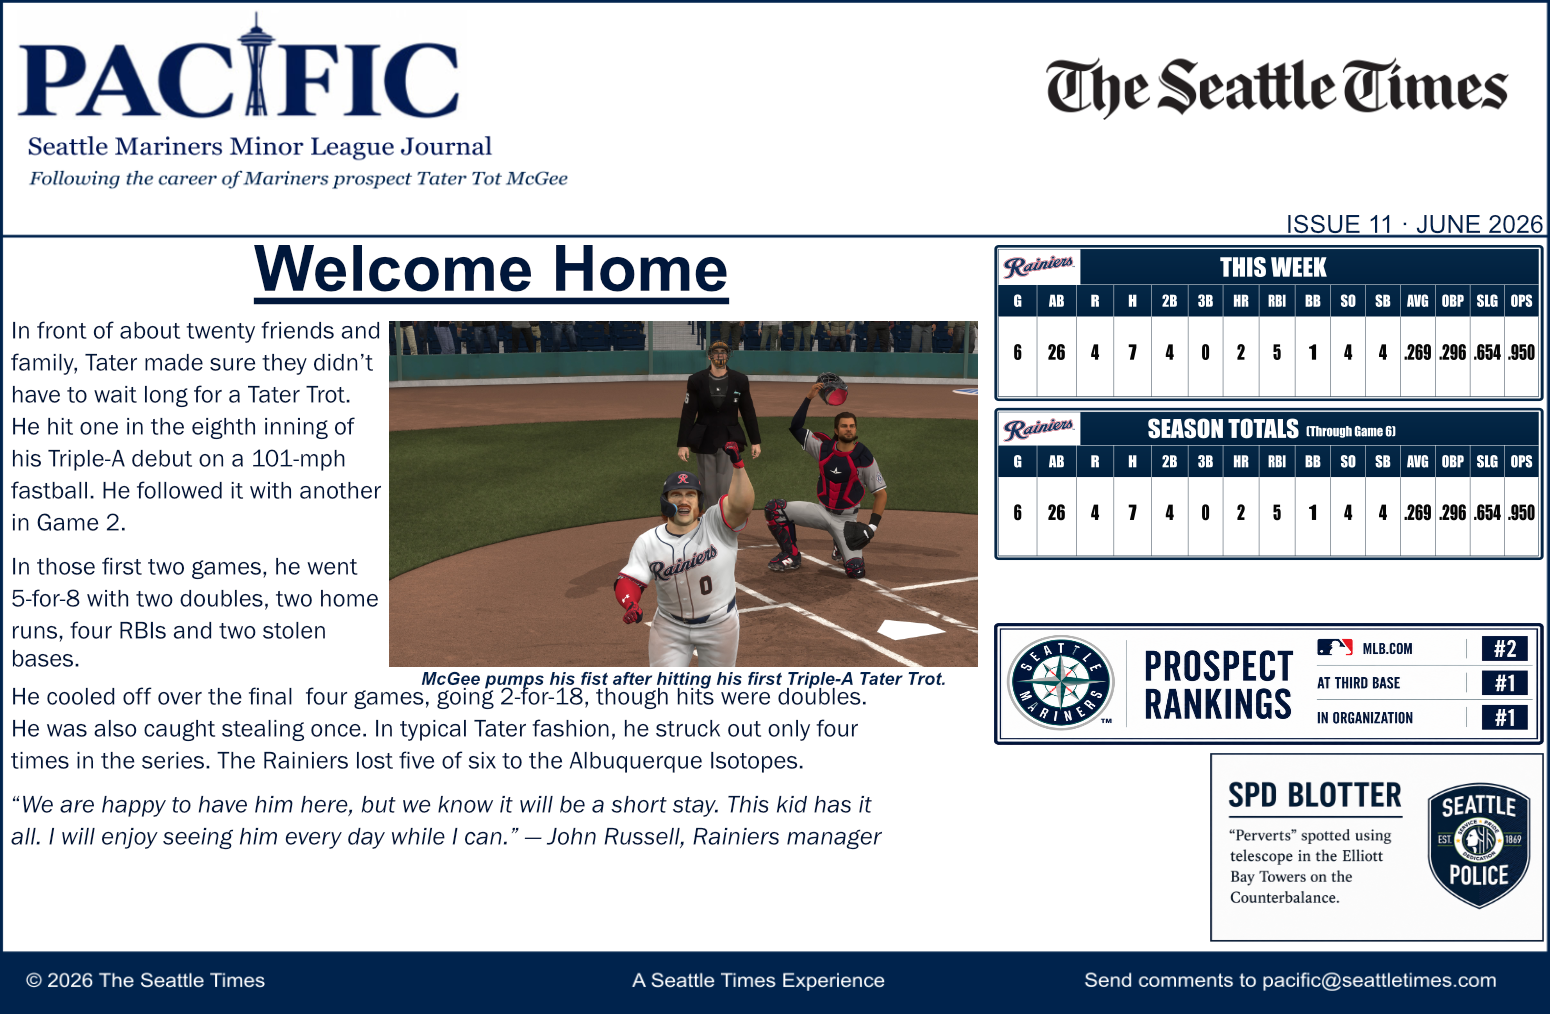
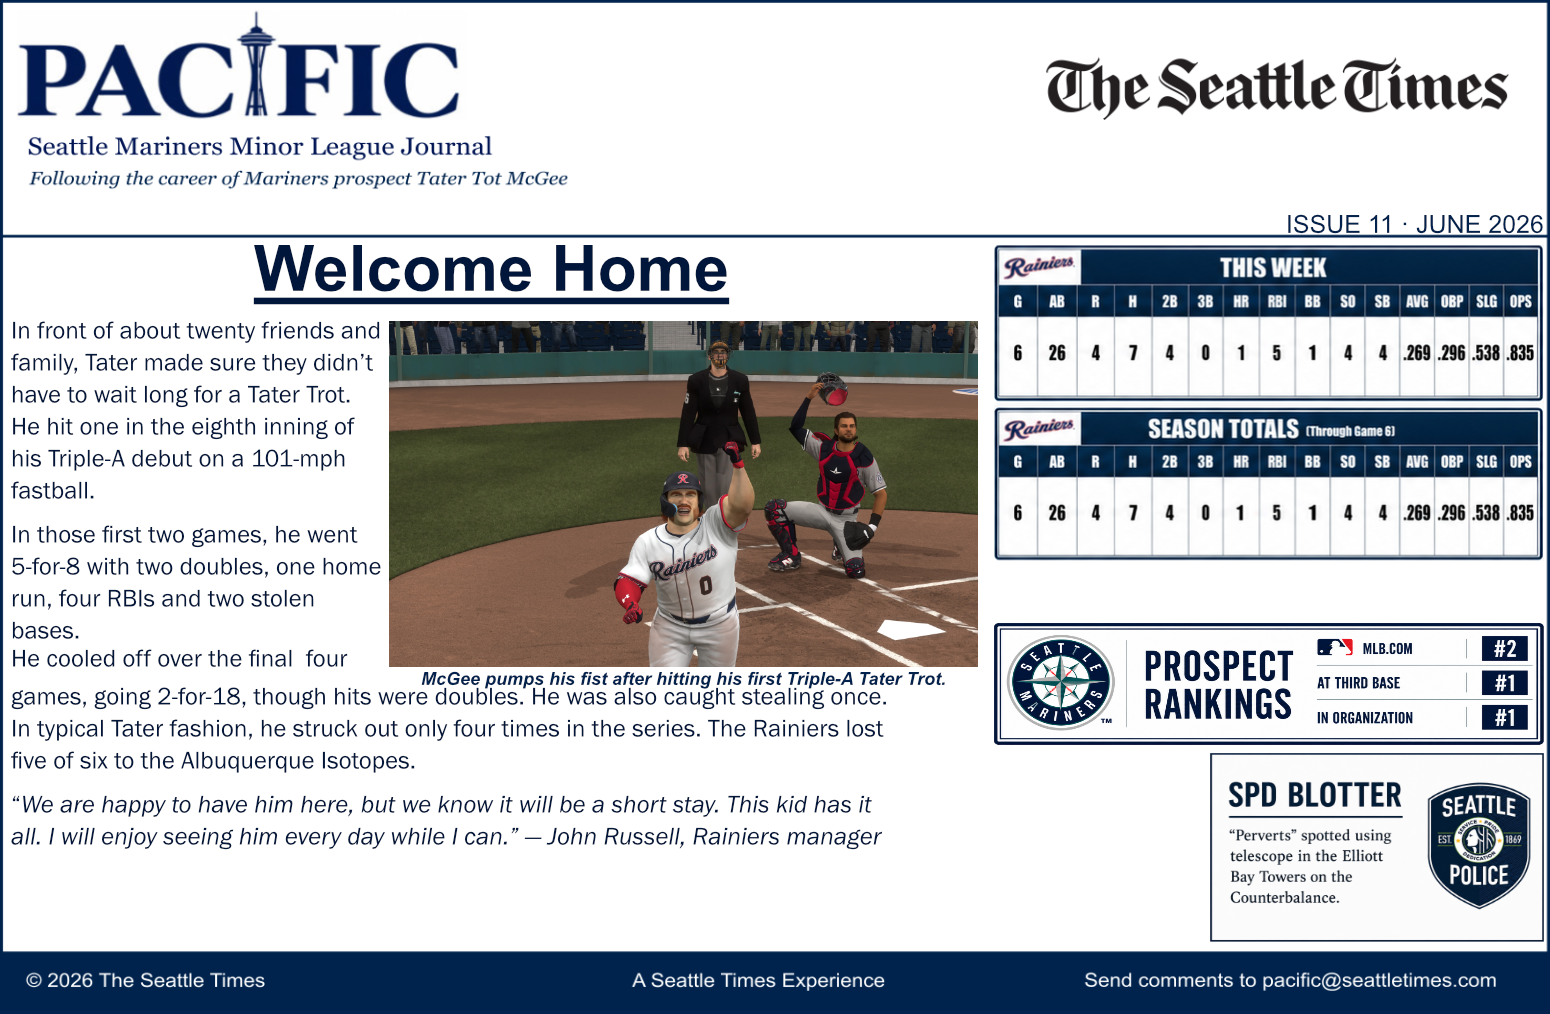
stat boxfix

Changed region(s): [[0.6194, 0.2446, 1.0, 0.5503], [0.0, 0.4892, 0.5574, 0.7643], [0.0619, 0.4586, 0.2477, 0.4892]]

diff --git a/recaps.html b/recaps.html
@@ -3,4 +3,5 @@
 <nav class="nav"><div class="navrow"><a class="" href="index.html">Home</a><a class="" href="mcgee-story.html">The McGee Story</a><a class="" href="archive.html">Weekly Write-Ups</a><a class="active" href="recaps.html">Monthly Recaps</a><a href="stats.html">Stats</a><a class="" href="career.html">Career Milestones</a><a class="" href="photos.html">Photos</a><a class="" href="snapshots.html">Personal Snapshots</a></div></nav><section class="pagehero"><div class="wrap"><div class="kicker">Monthly Recaps</div><h1 class="h1">The season in numbers</h1><p class="dek">Monthly PACIFIC recaps from the professional season of Tater Tot McGee.</p></div></section>
 <section id="april"><div class="wrap"><div class="kicker">April 2026</div><h2 class="h2">Tater's April Roller Coaster</h2><div class="statcards"><div class="stat"><b>.267</b><span>AVG</span></div><div class="stat"><b>.333</b><span>OBP</span></div><div class="stat"><b>.311</b><span>SLG</span></div><div class="stat"><b>.644</b><span>OPS</span></div></div><div class="recapsec"><a href="assets/april-recap.png" target="_blank"><img src="assets/april-recap.png" alt="April PACIFIC recap"></a><div class="recapnotes"><h3>April at a glance</h3><ul><li>24 games, 24 hits, 4 doubles</li><li>13 RBI, 8 walks, 6 strikeouts</li><li>7 stolen bases</li><li>Finished the month by hitting .467 over his final four games</li><li>Game of the Month: April 29 at Wichita — 2-for-3, double, walk, stolen base, 1.800 OPS</li></ul></div></div></div></section>
 <section id="may" class="section-alt"><div class="wrap"><div class="kicker">May 2026</div><h2 class="h2">Tater's Breakout Month</h2><div class="statcards"><div class="stat"><b>.299</b><span>AVG</span></div><div class="stat"><b>.339</b><span>OBP</span></div><div class="stat"><b>.522</b><span>SLG</span></div><div class="stat"><b>.861</b><span>OPS</span></div></div><div class="recapsec"><a href="assets/may-recap.png" target="_blank"><img src="assets/may-recap.png" alt="May PACIFIC recap"></a><div class="recapnotes"><h3>May at a glance</h3><ul><li>27 games, 35 hits, 13 doubles</li><li>3 home runs and 25 RBI</li><li>7 walks, only 4 strikeouts</li><li>Hit .400 over the final 12 games of the month</li><li>Best Game: May 15 at Northwest Arkansas — 2-for-4, HR, 2B, 2 RBI, walk, 0 strikeouts, 2.100 OPS</li></ul></div></div></div></section>
+<section id="june"><div class="wrap"><div class="kicker">June 2026 · Arkansas AA / Tacoma AAA</div><h2 class="h2">Tater’s Tacoma Homecoming</h2><div class="statcards"><div class="stat"><b>.272</b><span>AVG</span></div><div class="stat"><b>.313</b><span>OBP</span></div><div class="stat"><b>.495</b><span>SLG</span></div><div class="stat"><b>.808</b><span>OPS</span></div></div><div class="recapsec"><a href="assets/june-recap.png" target="_blank" rel="noopener"><img src="assets/june-recap.png" alt="June PACIFIC recap: AVG, OBP, SLG and OPS graphs show the AA-to-AAA transition between June 7 and June 9" loading="lazy" decoding="async"></a><div class="recapnotes"><h3>June at a glance</h3><ul><li>25 games: 6 with Arkansas (AA), 19 with Tacoma (AAA)</li><li>103 at-bats, 14 runs, 28 hits, 11 doubles, 0 triples</li><li>4 home runs, 21 RBI, 7 walks, 11 strikeouts, 5 stolen bases</li><li>0 hit-by-pitches and 2 sacrifice flies</li></ul><h3>Highlights</h3><p>McGee closed his Arkansas stint with a two-homer game, then opened his Tacoma career with three hits, a double, a home run and two stolen bases. On June 19 at Salt Lake, he went 2-for-3 with a home run, a double, three RBI and a walk.</p><h3>Key Milestones</h3><ul><li>June 3: Game-tying two-run double in the eighth inning at Corpus Christi.</li><li>June 7: First professional multi-home-run game in his final Double-A appearance.</li><li>June 9: Triple-A debut and first AAA hit, RBI, double, run, walk, stolen base and home run.</li></ul><h3>Game of the Month</h3><p>June 19 at Salt Lake — 2-for-3, double, home run, 2 runs, 3 RBI, walk and 0 strikeouts. 2.750 OPS.</p><h3>Promotion Tracker</h3><p>Promoted from Arkansas to Tacoma on June 9 after 57 Double-A games. June includes both clubs; each graph marks the transition after June 7 and before June 9.</p><p>Graphs show running June-only totals across both levels, without resetting at promotion. Monthly coverage: June 1–30, 2026.</p></div></div></div></section>
 <footer><div class="footrow"><div><strong>Tater Tot Chronicles / PACIFIC</strong><p>Following Tater Tot McGee from family history through professional baseball.</p></div><div class="disclaimer">Tater Tot Chronicles is a fictional fan-created baseball project and is not affiliated with The Seattle Times, Seattle Mariners, MLB or Minor League Baseball.</div></div></footer><script src="site.js"></script></body></html>

diff --git a/index.html b/index.html
@@ -274,6 +274,7 @@ footer .inner{max-width:1320px;margin:auto;padding:0 24px;display:flex;justify-c
     <div class="recaps">
       <article class="recap"><a href="assets/april-recap.png" target="_blank" rel="noopener" aria-label="Open full-size April PACIFIC recap"><img src="assets/home-april-recap.webp" alt="April PACIFIC recap — click to open full size" decoding="async" loading="lazy"></a><div class="rcopy"><div class="kicker">April 2026</div><h3>Tater's April Roller Coaster</h3></div></article>
       <article class="recap"><a href="assets/may-recap.png" target="_blank" rel="noopener" aria-label="Open full-size May PACIFIC recap"><img src="assets/home-may-recap.webp" alt="May PACIFIC recap — click to open full size" decoding="async" loading="lazy"></a><div class="rcopy"><div class="kicker">May 2026</div><h3>Tater's Breakout Month</h3></div></article>
+      <article class="recap"><a href="recaps.html#june" aria-label="Read June PACIFIC recap"><img src="assets/home-june-recap.webp" alt="June PACIFIC recap — Arkansas to Tacoma" decoding="async" loading="lazy"></a><div class="rcopy"><div class="kicker">June 2026</div><h3><a href="recaps.html#june">Tater’s Tacoma Homecoming</a></h3></div></article>
     </div>
   </div>
 </section>
